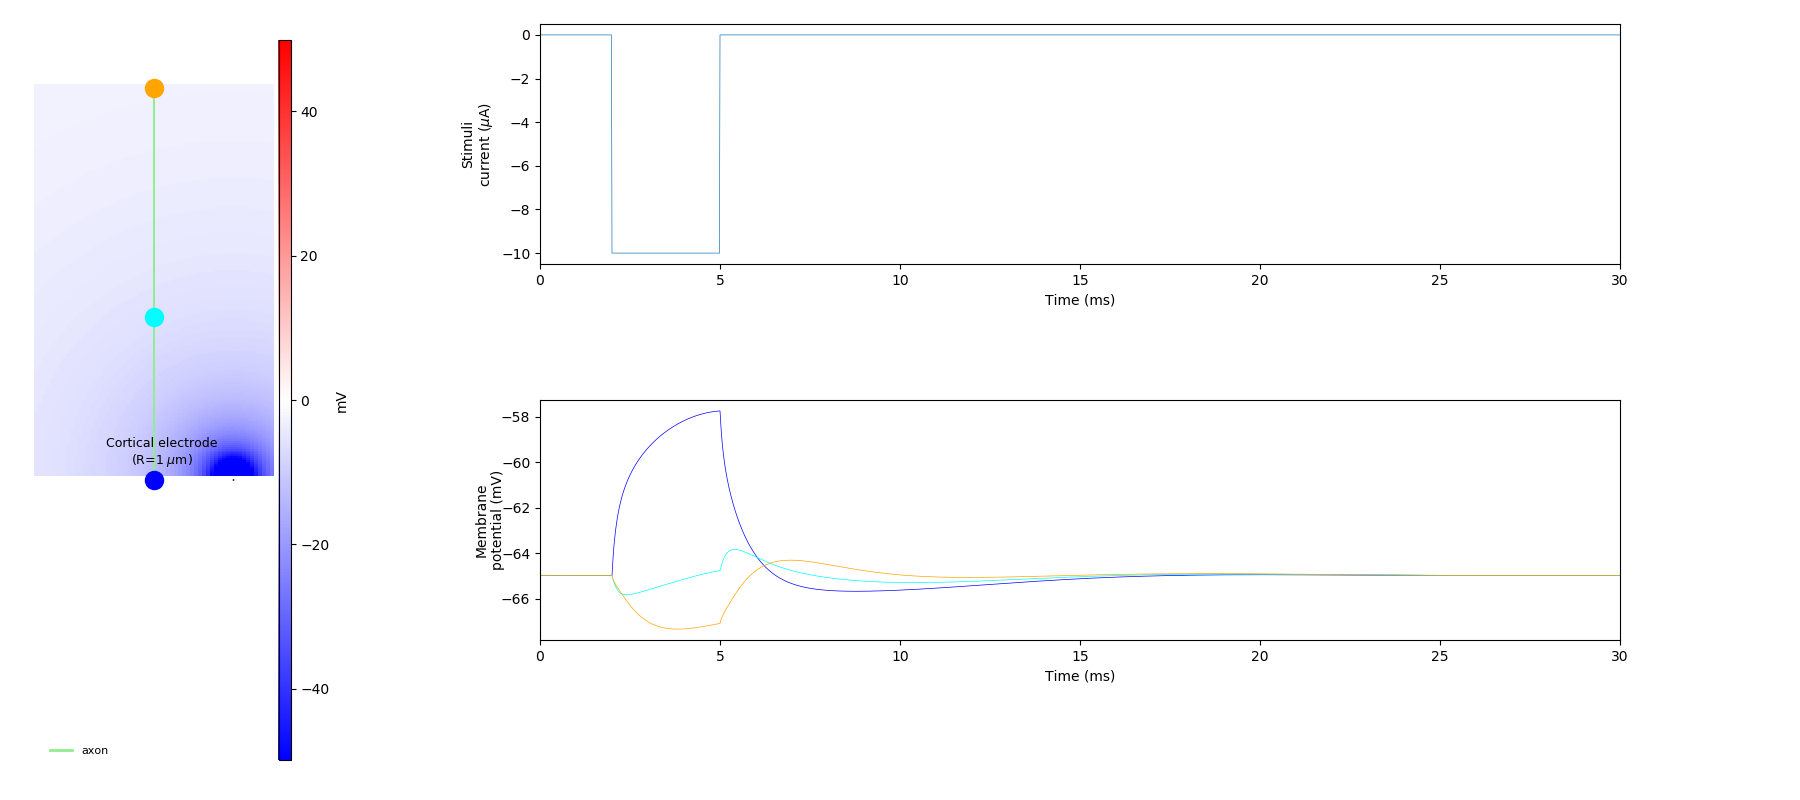
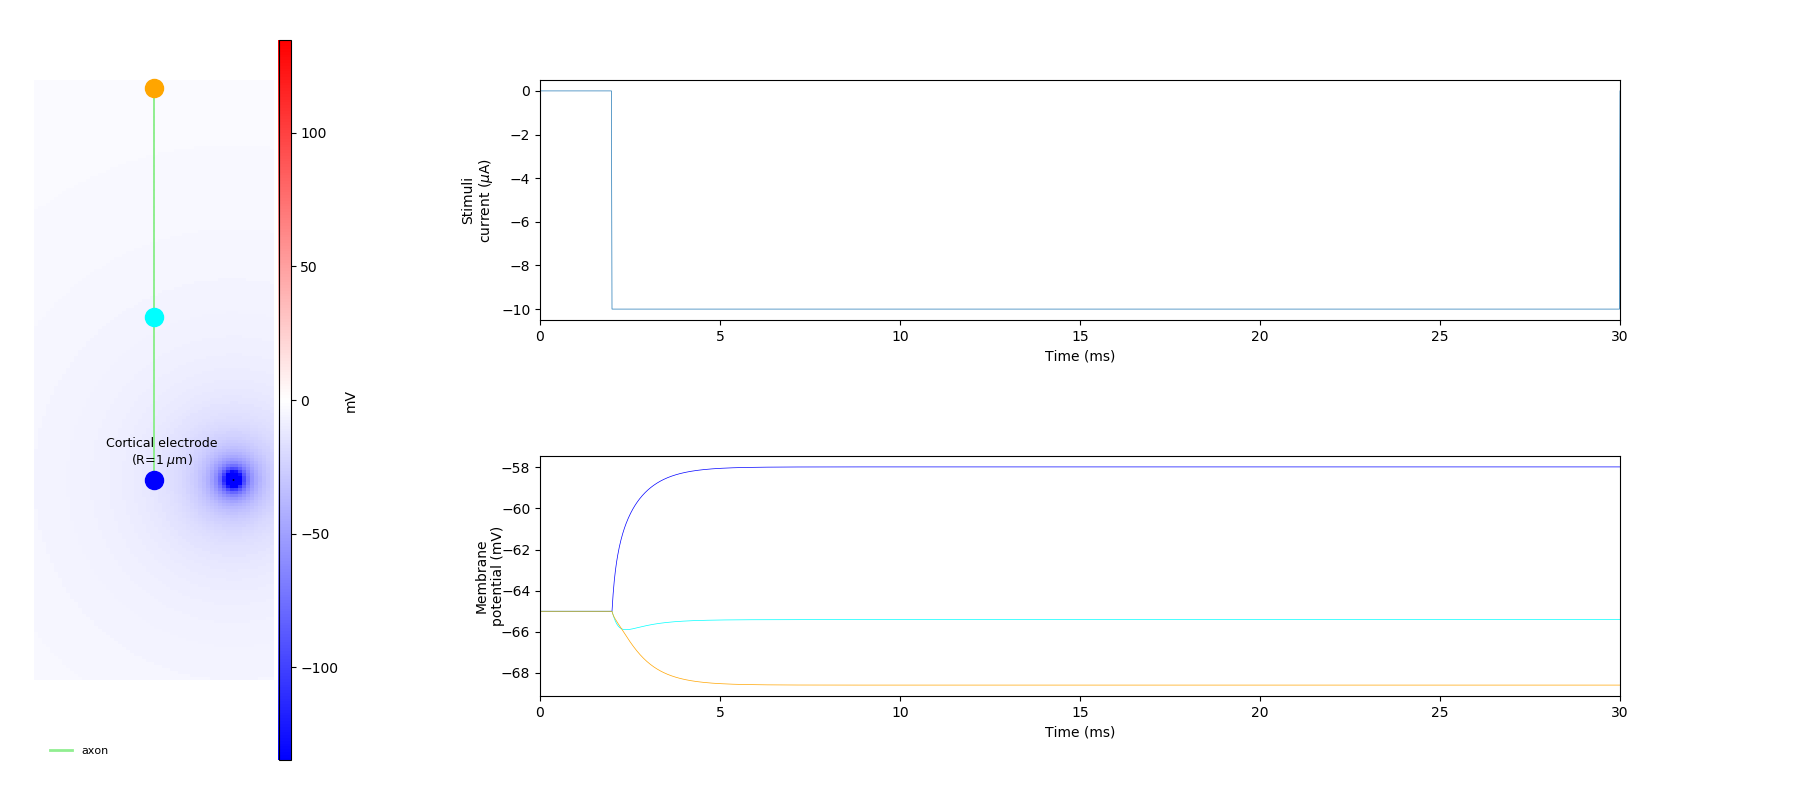
Setting better parameters and various small fixes

diff --git a/main.py b/main.py
@@ -151,8 +151,6 @@ class ExternalPotentialSim:
         if not passive:
             neuron.h('forall insert hh')
 
-        self.stop_time = stop_time
-
         for I in current_amps:
 
             elec_params['pulse_amp'] = I
@@ -249,9 +247,10 @@ class ExternalPotentialSim:
         # Adding external field visualization to cell morphology figure
         v_field_ext = np.zeros((100, 200))
         xf = np.linspace(-500, 500, 100)
+        zf = np.linspace(-500, 1000, 200)
         # print(self.cell.xend)
         # xf = np.linspace(np.min(self.cell.xend), np.max(self.cell.xend), 50)
-        zf = np.linspace(np.min(self.cell.zend), np.max(self.cell.zend), 200)
+        # zf = np.linspace(np.min(self.cell.zend), np.max(self.cell.zend), 200)
 
         for xidx, x in enumerate(xf):
 
@@ -267,7 +266,7 @@ class ExternalPotentialSim:
         cax = divider.append_axes("right", size="5%", pad=0.05)
         plt.colorbar(im_p, cax=cax, label='mV')
 
-        ax_top = 0.97
+        ax_top = 0.90
         ax_h = 0.30
         ax_w = 0.6
         ax_left = 0.3
@@ -298,12 +297,13 @@ class ExternalPotentialSim:
     def plot_potentialVdistance(self, elec_abs_dists, steady_state):
 
         fig, ax = plt.subplots()
-        ax.set_xlabel('Electrode Distance ($\mu m$)')
+        ax.set_xlabel('Electrode Distance from Cell Origin ($\mu m$)')
         ax.set_ylabel('Steady State Potential (mV)')
         ax.plot(elec_abs_dists, steady_state, '-o')
 
         if not os.path.isdir(self.save_folder):
             os.makedirs(self.save_folder)
 
-        plt.savefig(join(self.save_folder, 'potential_electrode_distance.png'))
+        plt.savefig(
+            join(self.save_folder, 'potential_electrode_distance.png'), dpi=300)
         # plt.show()

diff --git a/axon_single_source_pulse.py b/axon_single_source_pulse.py
@@ -25,23 +25,22 @@ Create figure of axial current over distance along axon. Use simple stick model.
 
 Improve plot_cellsim_alt for easy reading and page formatting.
 
-
 """
 
 cell_models_folder = join(os.path.dirname(__file__), "cell_models")
 
 # Test parameters
-# current_amps = [1e4, -1e4, 5e3]  # uA
-# positions = [np.array([[200, 0, -40], ], dtype=float),
-#              np.array([[200, 0, 0], ], dtype=float),
-#              np.array([[-125, 0, -880], ], dtype=float),
-#              np.array([[-230, 0, 175], ], dtype=float)]
 current_amps = [-1e4]  # uA
-positions = [np.array([[210, 0, 700], ], dtype=float)]
+positions = [np.array([[0, 0, -50], ], dtype=float),
+             np.array([[0, 0, -100], ], dtype=float),
+             np.array([[0, 0, -200], ], dtype=float),
+             np.array([[0, 0, -400], ], dtype=float),
+             np.array([[0, 0, -500], ], dtype=float)]
 
 axon_measure_idxs = np.array([0, 20, 48])
+monophasic_pulse_params['stop_time'] = 200
 
 extPotSim = ExternalPotentialSim(cellsim_bisc_stick_params)
 
 extPotSim.run_ext_sim(cell_models_folder, monophasic_pulse_params, current_amps,
-                      positions, axon_measure_idxs, 200)
+                      positions, axon_measure_idxs, 200, passive=True)
